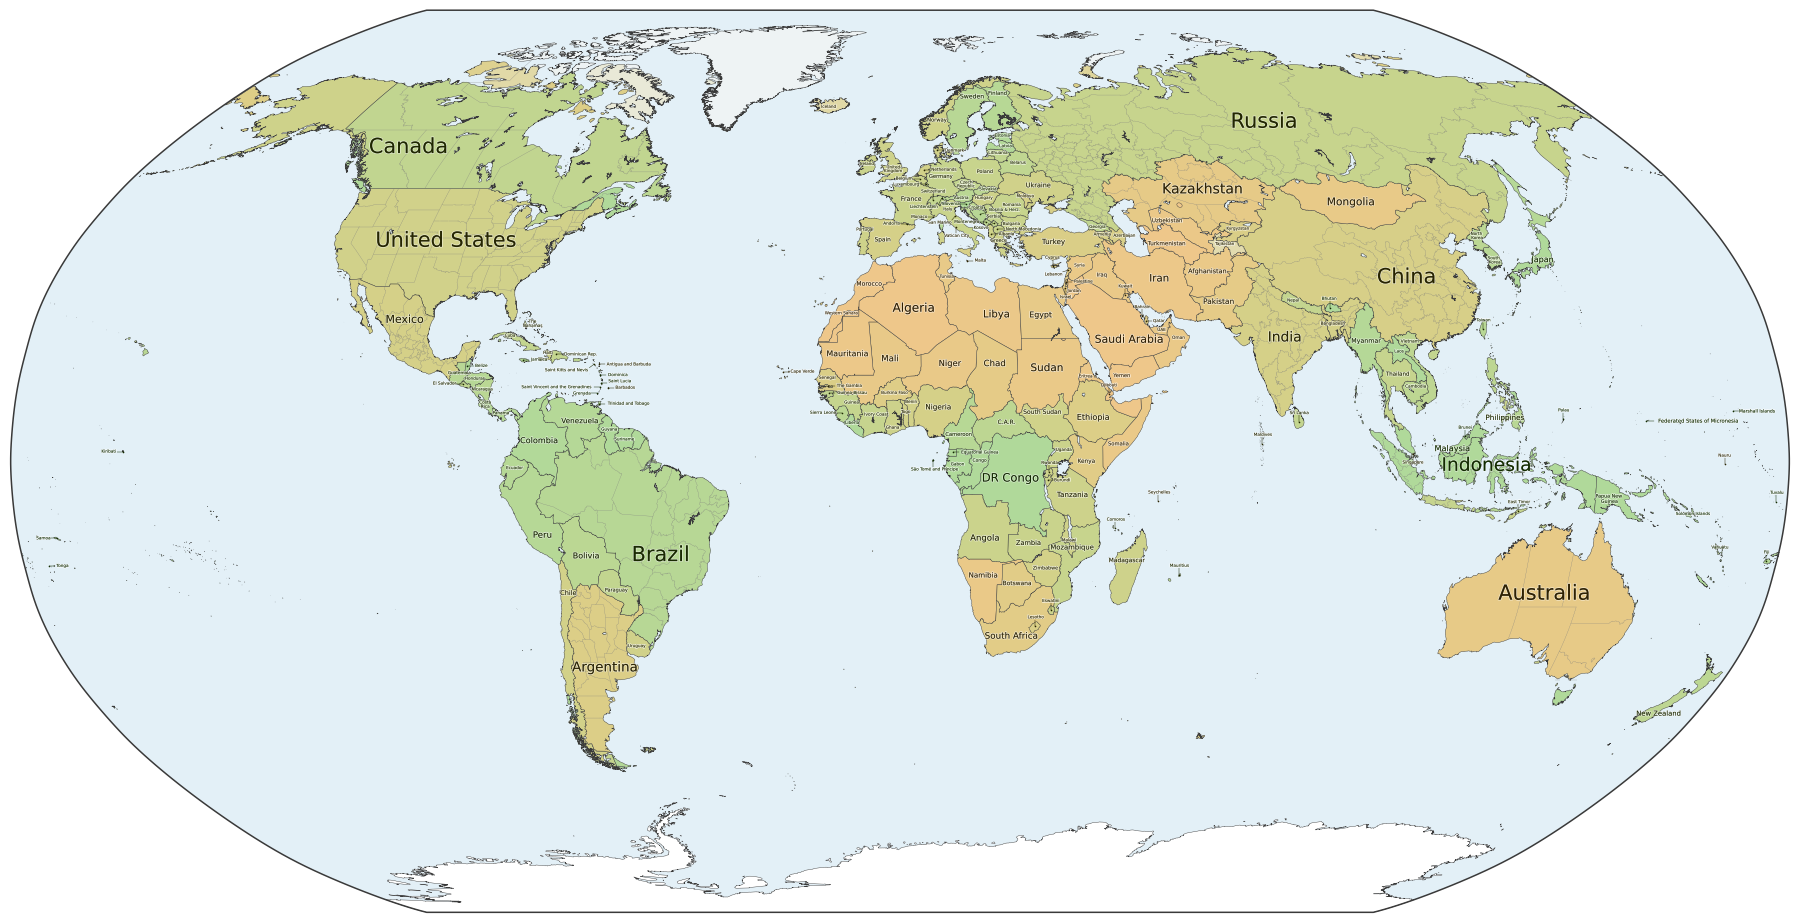
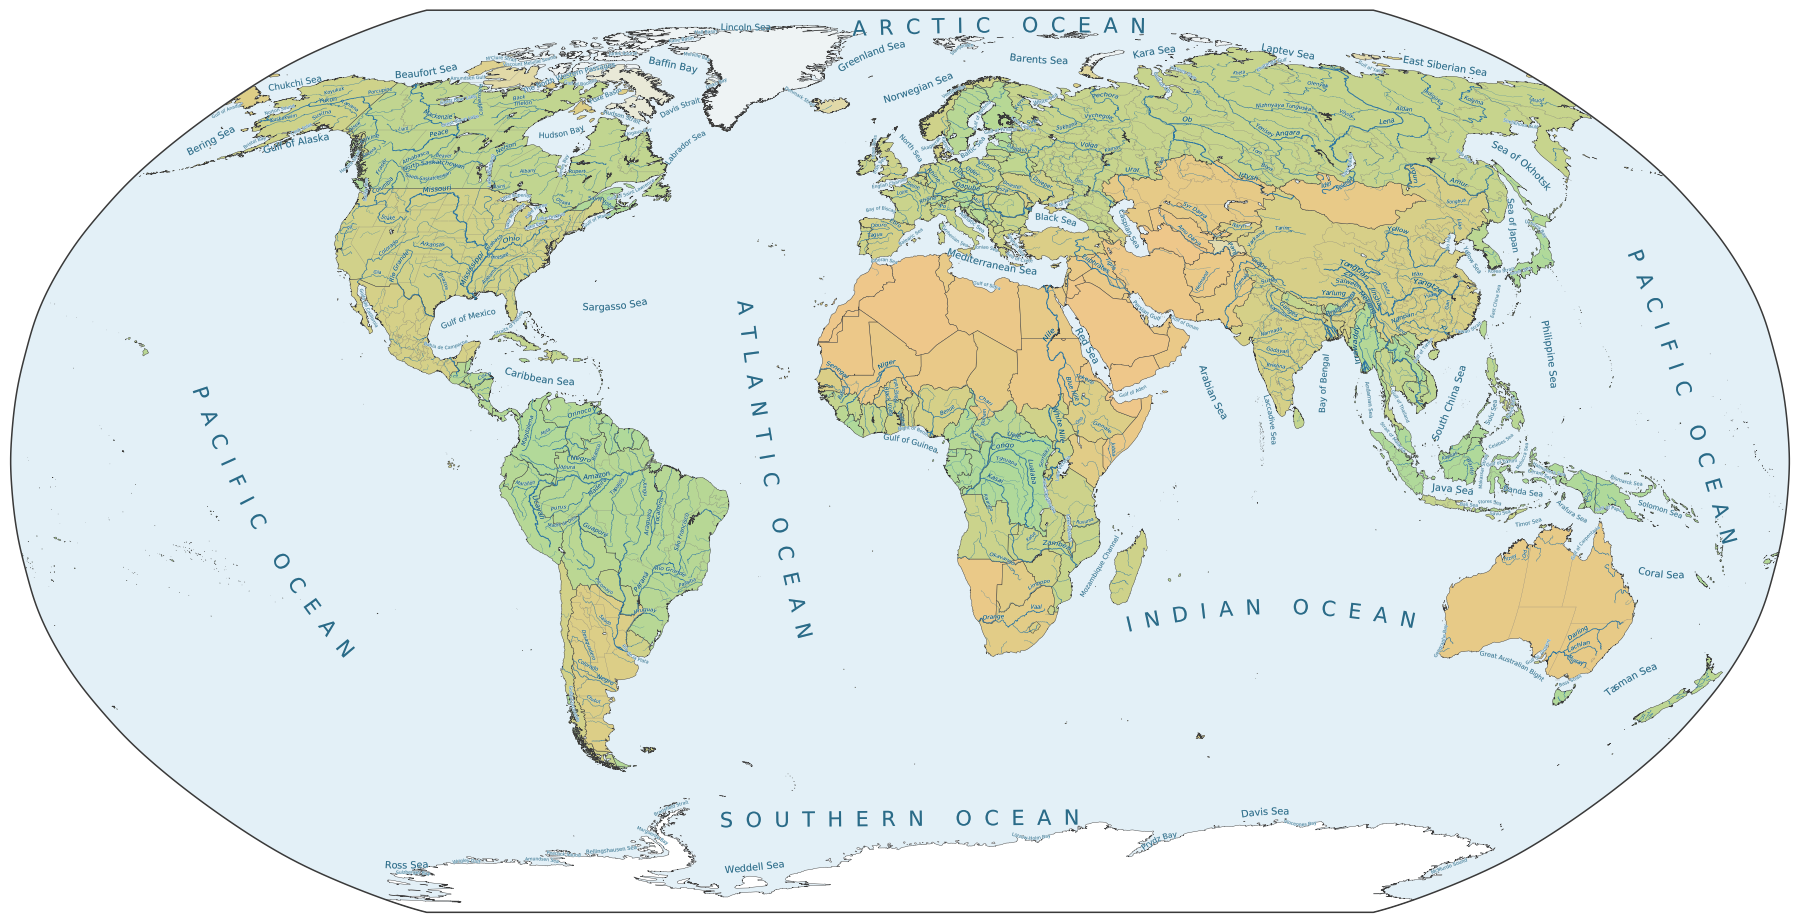
README,CLAUDE,examples: update

diff --git a/CLAUDE.md b/CLAUDE.md
@@ -22,7 +22,7 @@ relative to `data.py` (`CACHE`), so the package must be installed editable (`-e`
 
 ## Tests
 
-`.venv/bin/pytest` (~135 s). Unit tests cover the pure pieces (colour maths, `color_graph`, pin parsing and sprite, label geometry,
+`.venv/bin/pytest` (~155 s). Unit tests cover the pure pieces (colour maths, `color_graph`, pin parsing and sprite, label geometry,
 CLI errors), and `test_import_has_no_pyplot` guards that importing any module doesn't pick a matplotlib backend (`--pick` needs to).
 `test_regression.py` renders the default, `--color earth`, `--pins`, `--label countries,territories`, `--label countries,water` (`water`), `--disputed`, `--rivers`, `--type topographic`, `--type topographic --ocean` and `--type topographic --label water` (`topographic_water`) maps in a subprocess and compares a SHA-256 of the decoded pixels
 with `tests/fingerprints.json`:
@@ -35,7 +35,7 @@ with `tests/fingerprints.json`:
   (or deleting `earth.json`) to be exercised.
 - `conftest.private_caches` (session, autouse) points the in-process tests' `coloring.json`/`earth.json` at a temp copy, so a
   test with other inputs can't overwrite the real caches; the render subprocesses still read the real ones.
-- `conftest.environment(mode)` keys data files per mode (`raster` for earth, ETOPO etc. for topographic*, `marine` for *water*, `rivers` for *rivers*):
+- `conftest.environment(mode)` keys data files per mode (`raster` for earth, ETOPO etc. for topographic*, `marine` for *water*, `rivers` for *river* and *water*):
   a new key on an existing mode would make it skip, so add keys only for the modes that use them.
 
 `.venv/bin/mypy src` should report no issues (default mode, missing stubs ignored).
@@ -52,14 +52,14 @@ Importing any module has no side effects; only `cli.main` (after choosing the ba
 | `colorspace.py` | OKLab/OKLCH conversions, `fit_gamut`, `darken` |
 | `coloring.py` | `merge_into_parents`, `adjacency`, `add_proximity_edges`, `color_graph`, `make_palette`, `load_or_compute_coloring` (cache), `spot_check`, `OCEAN` |
 | `disputed.py` | `--disputed`: `parse_note`, `ALIASES`, `HAND_CLAIMS`, `LABEL_TEXT`, `Dispute`, `load_disputes`, `dispute_edges`, `dispute_fills`, `stripe_parts`, `border_lines`, `disputed_label_args` |
-| `topographic.py` | `--type topographic`: `elevation_grid` (ETOPO -> cached 3' grid), `sample`, `Scale` (`LAND`, `SEA`, `ICE`), `Contours`, `colorize`, `relief`, `shade`, `poster_grid`, `polygon_mask`, `despeckle`, `solid_field`, `surfaces`, `coast_lines`, `draw_topography` |
+| `topographic.py` | `--type topographic`: `elevation_grid` (ETOPO -> cached 3' grid), `sample`, `Scale` (`LAND`, `SEA`, `ICE`), `Contours`, `colorize`, `relief`, `shade`, `poster_grid`, `polygon_mask`, `despeckle`, `solid_field`, `surfaces`, `coast_lines`, `grow`, `estuary_path`, `extend_to_sea`, `draw_topography` |
 | `colorbars.py` | `--type topographic`: `bar_region`, `globe_side`, `curved_title`, `draw_colorbar` (right-triangle bars in the canvas corners) |
 | `earth.py` | `--color earth`: `earth_values` (raster sampling, cache), `earth_fill`, `build_regions`, `fill_at` |
 | `pins.py` | `load_pins`, `PinStyle` (every sprite shading constant), `pin_sprite`, `draw_pins`, `pick_pins` |
 | `labels/label.py` | `Label` dataclass, `make_labels` (anchors, sizes, exclaves), `decide_out_and_wrap` |
 | `labels/regions.py` | `--label territories`: `ChildRegion`, `HAND_PICKED` (parent + lon/lat boxes), `child_regions` |
-| `labels/water.py` | `--label oceans,seas,lakes,water`: `kinds_from_labels`, `classify`, `WaterBody`, `load_water_bodies`, `fit_curve`, `body_curve`, `WaterLabel`, `make_water_labels`, style constants |
-| `labels/placement.py` | `CostWeights`, `Placement` (per-label arrays, water glyph boxes), `cost_batch`/`water_cost`, `candidates`, `clashes`, `place_labels`, `place_with_water` (drop loop), `leader_ends` |
+| `labels/water.py` | `--label oceans,seas,lakes,straits,rivers,water`: `kinds_from_labels`, `classify`, `WaterBody`, `load_water_bodies`, `river_name`, `longest_paths`, `load_river_bodies`, `best_stretch`, `river_label`, `fit_curve`, `body_curve`, `WaterLabel`, `make_water_labels`, style constants |
+| `labels/placement.py` | `CostWeights`, `Placement` (per-label arrays, water glyph boxes), `cost_batch`/`water_cost`, `candidates`, `clashes`, `place_labels` (`fixed`), `place_with_water` (drop loop), `place_all` (rivers last), `leader_ends` |
 | `labels/geometry.py` | `rect`, `nearest_point_on_rect`, `segment_hits_rects`, `segments_cross`, `two_line` |
 | `curves.py` | `arc_lengths`, `along`, `bend` (points along a polyline + its left normal): text bending for `colorbars.curved_title` and water labels |
 | `render.py` | `new_figure`, `draw_countries`, `draw_stripes`, `draw_borders`, `draw_states`, `draw_rivers`, `draw_lakes`, `subtract_lakes`, `draw_labels`, `draw_water_labels`, line widths and z-orders |
@@ -198,7 +198,7 @@ Digitises the physical pin-the-hometown poster. A pin list is a text file, one `
 ## Water labels (`labels/water.py`)
 
 - Bodies: Natural Earth `ne_10m_geography_marine_polys` (`data.MARINE`, rough label areas, never drawn) + the drawn lakes.
-  `classify`: ocean -> oceans; sea/gulf/bay/sound/fjord/lagoon/inlet -> seas; strait/channel -> straits (only via `water`);
+  `classify`: ocean -> oceans; sea/gulf/bay/sound/fjord/lagoon/inlet -> seas; strait/channel -> straits;
   reefs, rivers, unnamed `generic` areas and names ending " River" (Saint Lawrence is a 'channel') never. North + South
   Atlantic are one ATLANTIC; the Pacific is split at x = 0 into two bodies. Each body is labelled once, on its largest
   polygon; order = oceans, then scalerank, then area (most important first; the drop loop removes from the end).
@@ -226,13 +226,36 @@ Natural Earth `ne_10m_rivers_lake_centerlines` (`data.RIVERS`), scalerank 0 (big
 9+ are short tributaries, canals are dropped. `render.draw_rivers` draws them in `RIVER` (OKLCH 0.54/0.10/240, darker
 than the ocean so it shows on every fill), `river_width` thinning linearly from `RIVER_WIDTH_MAX` to `RIVER_WIDTH_MIN`,
 thin ones first. `Z_RIVERS` = 2.2: above the state lines, below the lakes, which hide the centrelines through them.
-Political maps draw them before the lakes; `--type topographic` after `draw_topography` (same z-order). Labels
-ignore them.
+Labels ignore them.
+
+`--type topographic`: `draw_topography(rivers=)` draws them. Its coastline is smoothed, which fills in estuaries a
+pixel or two wide, so ~140 of ~420 river mouths ended inland (Elbe, Tagus, Hudson, deltas). `extend_to_sea` carries
+each mouth (an end no other river line shares) along a shortest 8-connected path (`estuary_path`, straight steps
+first) through the filled-in pixels, Natural Earth's water `grow`n by a pixel to join broken channels, to the sea,
+within `MOUTH_REACH_PX`; ~14 still end > 2 px inland (fjords, long narrow inlets).
+
+## River labels (`--label rivers`)
+
+- `rivers` is a water kind; `water` = all kinds (oceans, seas, lakes, straits, rivers). `--label rivers` or `water`
+  also draws the rivers (`cli.draws_rivers`).
+- Bodies (`load_river_bodies`): the drawn rivers grouped by `river_name(name_en)` (English, merges Rhein/Rhin; drops
+  " River", `NOT_RIVERS` delta channels and canals, `RIVER_NAMES` fixes), scalerank <= `RIVER_LABEL_MAX_RANK`. Natural
+  Earth breaks rivers at lakes, reservoirs and junctions, so `longest_paths` joins ends within `RIVER_JOIN_M` and takes
+  the longest path through each network's maximum spanning tree (an exhaustive search blew up on deltas). Same-named
+  networks `RIVER_REPEAT_M` apart are labelled separately (Colorado US/Argentina). `WaterBody.geom` is the line.
+- `river_label`: italic, `river_size` by rank; `best_stretch` picks the straightest, most level stretch near the middle
+  for the name + an em; `fit_curve` on it; `lay_out(rise=)` puts the baseline `RIVER_GAP_EM` above the curve plus
+  however far the river wiggles above it (`height_above`). Its `geom` is a `RIVER_CORRIDOR_EM` buffer of the whole river.
+- Placement: `place_all` places countries + other water first, then the rivers with all of those `fixed` (so a river
+  name can't push a country label off its country: it once moved Czech Republic to Denmark). Rivers come last, so the drop loop drops them first. Drawn in `RIVER_TEXT` with the country labels' white halo.
+- `--label countries,rivers` takes ~13 s; ~180 river names kept.
 
 ## Gotchas
 
 - macOS BSD `sed -i` needs `sed -i ''`; prefer python/Edit for file edits.
 - Keep scratch files (previews, crops, simulations) in the session scratchpad, not the project dir.
+- Leave `README.md` and `examples/` alone until the branch's work is done, and ask before updating them: every
+  re-rendered PNG adds 0.5-2.5 MB to the repo history.
 - Natural Earth `TYPE` includes odd features (Baikonur, Bir Tawil, Siachen, UN buffer zone...) that are drawn but
   deliberately not labelled. `NAME_EN` is used as the country key.
 - The antimeridian: projection is centred on lon 0 and clipped to +-180; across-water adjacency uses a +-world-width

diff --git a/README.md b/README.md
@@ -24,7 +24,8 @@ make_map                      # writes worldmap.png
 make_map out.png              # choose the output file
 make_map --color earth        # natural colours (sand to green) from Natural Earth land-cover imagery
 make_map --label countries,territories  # also label dependencies and outlying regions, e.g. "Alaska (US)"
-make_map --label countries,water  # also name the oceans, seas, lakes and straits
+make_map --label countries,water  # also name the oceans, seas, lakes, straits and rivers
+make_map --label countries,rivers  # draw the major rivers and name them
 make_map --disputed           # stripe disputed areas (Kashmir, Crimea, Taiwan...) in their claimants' colours
 make_map --rivers             # draw the major rivers (also with --type topographic)
 make_map --type topographic --ocean  # heights and sea depths instead of countries
@@ -37,7 +38,7 @@ make_map --pins pins.txt      # draw the pins; writes worldmap_pins.png
 | `--type TYPE` | `political` (default): countries, borders and labels. `topographic`: heights with hill shading and contours (land below sea level, like the Dead Sea shore, stays land), ice sheets and glaciers on their own scale, colour bars in the corners, no borders, and only water labels if `--label` asks for them (`--color`, `--disputed`, `--recolor` and the `countries`/`territories` labels are ignored). The first run downloads ~470 MB of elevation data (ETOPO 2022). |
 | `--ocean` | With `--type topographic`, colour the sea by depth, with depth contours and a depth colour bar. Ignored with `--type political`. |
 | `--color NAME` | How countries are filled. `colorblind` (default): distinct colours that red/green colour-blind viewers can tell apart. `earth`: each region coloured by what it looks like from space; the first run downloads a ~75 MB raster. |
-| `--label LIST` | What to label: a comma-separated list, or `none`. `countries` (default): sovereign countries. `territories`: dependencies (Greenland, Bermuda, Guam...) and outlying parts of countries (Alaska, Tasmania, Kaliningrad...), in italics with the parent country in parentheses. `oceans`, `seas` (with gulfs, bays, sounds...), `lakes`: water names in blue, curved along each body; `water` = all three plus straits and channels. Water names that don't fit are left out, never the country names. The list replaces the default, so `--label territories` labels territories only. |
+| `--label LIST` | What to label: a comma-separated list, or `none`. `countries` (default): sovereign countries. `territories`: dependencies (Greenland, Bermuda, Guam...) and outlying parts of countries (Alaska, Tasmania, Kaliningrad...), in italics with the parent country in parentheses. `oceans`, `seas` (with gulfs, bays, sounds...), `lakes`, `straits` (with channels): water names in blue, curved along each body. `rivers`: river names in italic blue along each river (draws the rivers too, as `--rivers`; works with `--type topographic`). `water`: all of these. Water and river names that don't fit are left out, never the country names. The list replaces the default, so `--label territories` labels territories only. |
 | `--rivers` | Draw the major rivers (Natural Earth's river and lake centrelines), wider for the more important ones. Works with both map types. |
 | `--disputed` | Draw disputed areas (from Natural Earth's disputed-areas data) in equal stripes of the colours of every country involved: the one running it and its claimants. Areas with 3 or more countries are plain grey; self-governing areas with no country of their own (Abkhazia, Transnistria...) alternate their parent's colour with grey. Borders between a disputed area and the countries involved are dashed. Self-governing areas (Taiwan, Somaliland, Northern Cyprus, Abkhazia...) get labels; the rest don't. With `--color earth`, only the dashed borders and labels. |
 | `--pins FILE` | Draw pins from `FILE`, one `lon,lat` per line (`#` starts a comment). |
@@ -62,13 +63,14 @@ make_map examples/colorblind.png --dpi 50
 
 ![World map in colour-blind-friendly colours](examples/colorblind.png)
 
-Natural colours with `--color earth`:
+Natural colours with `--color earth`, and the oceans, seas, lakes, straits and rivers named instead of the countries
+(`--label water`):
 
 ```
-make_map examples/earth.png --color earth --dpi 50
+make_map examples/earth.png --color earth --label water --dpi 50
 ```
 
-![World map in natural colours](examples/earth.png)
+![World map in natural colours with water names](examples/earth.png)
 
 Disputed areas with `--disputed`:
 
@@ -85,14 +87,6 @@ make_map examples/topographic.png --type topographic --ocean --dpi 50
 ```
 
 ![Topographic world map with sea depths](examples/topographic.png)
-
-Oceans, seas, lakes and straits named, `--label countries,water`:
-
-```
-make_map examples/water.png --label countries,water --dpi 50
-```
-
-![World map with ocean, sea and lake names](examples/water.png)
 
 Pins from [`examples/pins.txt`](examples/pins.txt), a list of 23 large cities:
 
@@ -114,7 +108,7 @@ A pin file has one `lon,lat` per line, and `#` starts a comment:
 
 ```
 pip install -e '.[dev]'
-pytest           # ~135 s: unit tests plus pixel-exact renders of the default, --color earth, --pins, --label countries,territories, --label countries,water, --disputed, --rivers and three topographic maps
+pytest           # ~155 s: unit tests plus pixel-exact renders of the default, --color earth, --pins, --label countries,territories, --label countries,water, --disputed, --rivers and three topographic maps
 mypy src
 ```
 
